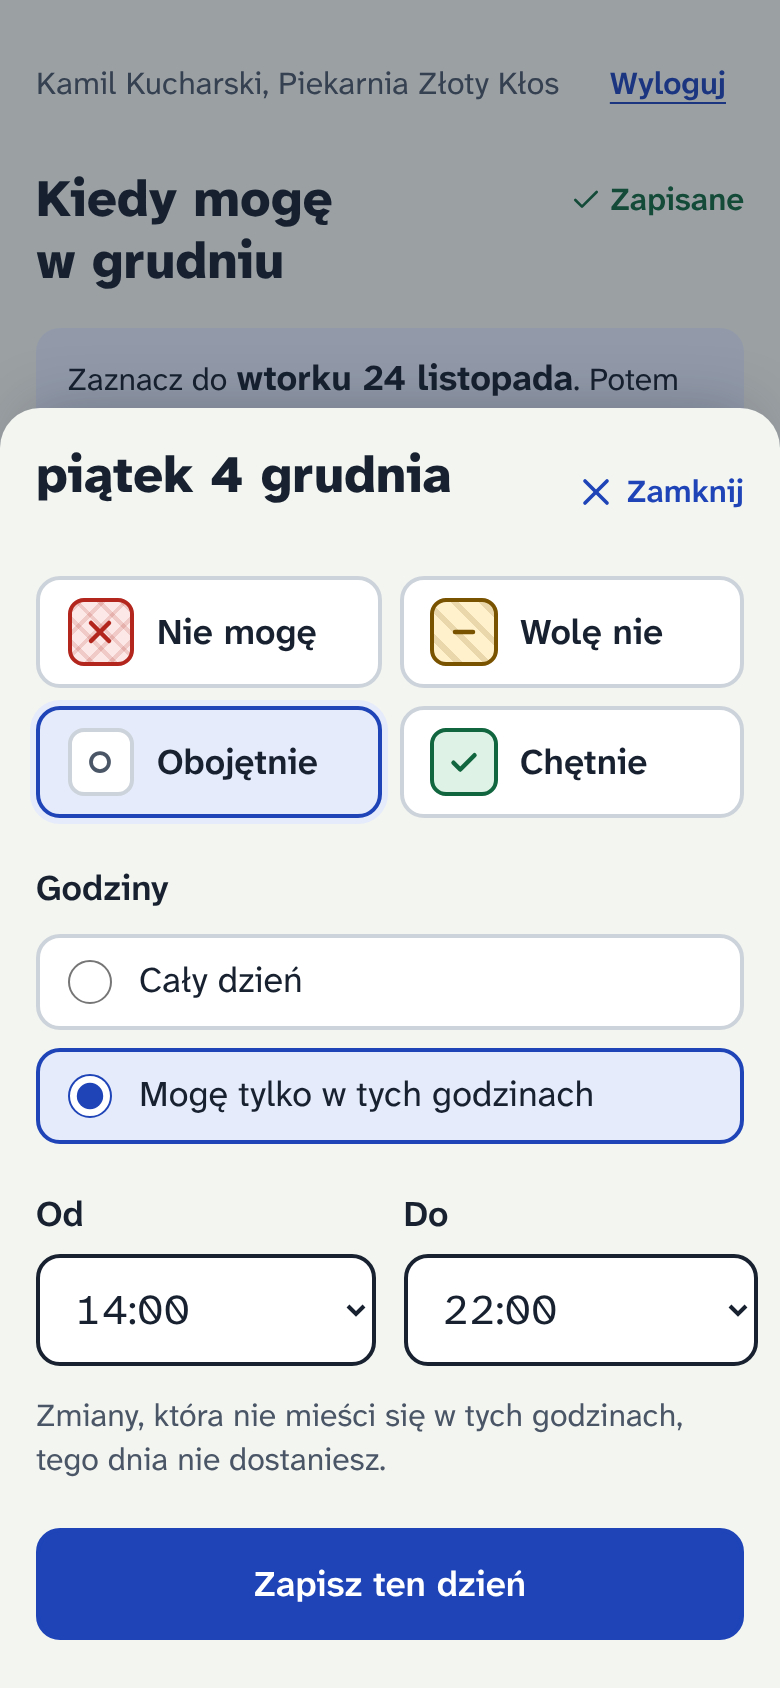
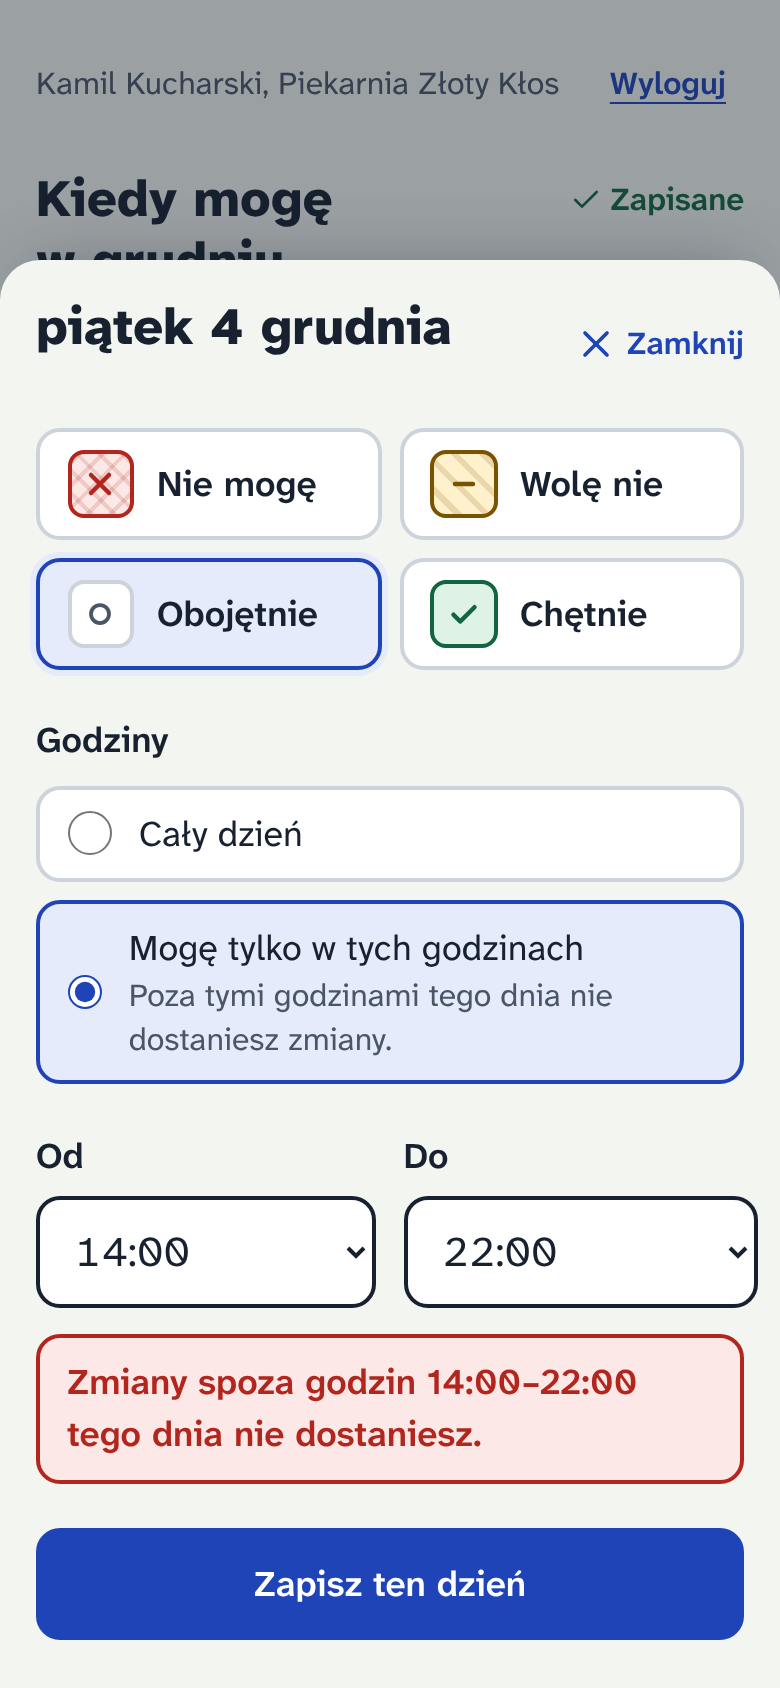
Open a day's hours with a tap, list days with hours, clearer hours warning
- A tap on a day that already has the chosen state opens its hours sheet.
- "Dni z godzinami" list under the calendar with a "Zmień" button per day.
- Day sheet warns in red that no shift outside the chosen hours is possible.
- "Więcej opcji" explains that repeat and copy overwrite marks (undo works).
- Pilot questions from the review noted in docs/plan.md.

Claude-Session: https://claude.ai/code/session_01EvmcCo4qz2pWAJ61h7Xgtv

Changed region(s): [[0.0, 0.154, 1.0, 0.8934]]

diff --git a/frontend/src/features/availability/AvailabilityScreen.tsx b/frontend/src/features/availability/AvailabilityScreen.tsx
@@ -13,14 +13,15 @@ import { Button } from '../../components/ui/button'
 import { EmptyState, ErrorState, InlineError, Loading } from '../../components/ui/status'
 import { errorMessage, NETWORK_PROBLEM } from '../../lib/api-error'
 import { cn } from '../../lib/cn'
-import { addDays, dayAndMonth, parseDate, periodWords, toIsoDate, weekdayGenitive } from '../../lib/dates'
+import { addDays, dayAndMonth, dayTitle, parseDate, periodWords, toIsoDate, weekdayGenitive } from '../../lib/dates'
 import { AvailabilityCalendar } from './AvailabilityCalendar'
 import { DayHoursSheet } from './DayHoursSheet'
 import {
   type AvailabilityState,
   changedDays,
   countStates,
-  type Mark,
+  describeMark,
+  hasHours,
   markOf,
   STATE_LABEL,
   STATES,
@@ -139,9 +140,9 @@ function AvailabilityEditor({
       stroke.current ??= {}
       if (date in stroke.current) return
       const before = markOf(marksRef.current, date)
-      const after: Mark = { state: tool, from: null, to: null }
       stroke.current[date] = before
-      if (!sameMark(before, after)) apply({ [date]: after })
+      // A day that already has this state keeps its hours; a tap on it opens the day instead (see endStroke).
+      if (before.state !== tool) apply({ [date]: { state: tool, from: null, to: null } })
     },
     [tool],
   )
@@ -156,6 +157,12 @@ function AvailabilityEditor({
         previous[date] = touched[date]
         changes[date] = markOf(marksRef.current, date)
       }
+    }
+    const dates = Object.keys(touched)
+    if (dates.length === 1 && Object.keys(changes).length === 0) {
+      // Tapping a day that already shows the chosen state opens it: its hours can be seen and changed.
+      setOpenDay(dates[0])
+      return
     }
     record(previous)
     send(changes)
@@ -229,6 +236,8 @@ function AvailabilityEditor({
         onStroke={endStroke}
         onOpenDay={tool === 'hours' ? setOpenDay : undefined}
       />
+
+      <DaysWithHours marks={marks} dates={dates} editable={editable} onOpen={setOpenDay} />
 
       <p className="m-0 flex flex-wrap gap-x-3.5 gap-y-1 text-sm text-ink-muted" aria-live="polite">
         <span>
@@ -400,5 +409,43 @@ function ToolBar({ tool, onChange }: { tool: Tool; onChange: (tool: Tool) => voi
         ))}
       </div>
     </div>
+  )
+}
+
+/** Days marked with hours, written out, so the hours can be read and changed without hunting in the grid. */
+function DaysWithHours({
+  marks,
+  dates,
+  editable,
+  onOpen,
+}: {
+  marks: Marks
+  dates: string[]
+  editable: boolean
+  onOpen: (date: string) => void
+}) {
+  const withHours = dates.filter((date) => hasHours(markOf(marks, date)))
+  if (withHours.length === 0) return null
+  return (
+    <section aria-labelledby="hours-days" className="grid gap-2">
+      <h2 id="hours-days" className="m-0 text-base font-extrabold">
+        Dni z godzinami
+      </h2>
+      <ul className="m-0 grid list-none overflow-hidden rounded-md border border-line bg-surface p-0">
+        {withHours.map((date) => (
+          <li key={date} className="flex items-center justify-between gap-3 border-t border-grid px-3.5 py-1.5 first:border-t-0">
+            <span className="min-w-0">
+              <span className="font-semibold">{dayTitle(parseDate(date))}</span>
+              <span className="block text-sm text-ink-muted">{describeMark(markOf(marks, date))}</span>
+            </span>
+            {editable && (
+              <Button variant="quiet" size="normal" className="px-2" onClick={() => onOpen(date)}>
+                Zmień
+              </Button>
+            )}
+          </li>
+        ))}
+      </ul>
+    </section>
   )
 }

diff --git a/frontend/src/features/availability/DayHoursSheet.tsx b/frontend/src/features/availability/DayHoursSheet.tsx
@@ -47,7 +47,7 @@ export function DayHoursSheet({
             <label
               key={String(option)}
               className={cn(
-                'flex min-h-(--touch) cursor-pointer items-center gap-3 rounded-md border-2 border-line bg-surface px-3',
+                'flex min-h-(--touch) cursor-pointer items-center gap-3 rounded-md border-2 border-line bg-surface px-3 py-2',
                 limited === option && 'border-accent bg-accent-soft',
               )}
             >
@@ -58,7 +58,16 @@ export function DayHoursSheet({
                 checked={limited === option}
                 onChange={() => setLimited(option)}
               />
-              {option ? (restricting ? 'Tylko w tych godzinach' : 'Mogę tylko w tych godzinach') : 'Cały dzień'}
+              <span>
+                {option ? (restricting ? 'Tylko w tych godzinach' : 'Mogę tylko w tych godzinach') : 'Cały dzień'}
+                {option && (
+                  <span className="block text-sm text-ink-muted">
+                    {restricting
+                      ? 'W pozostałych godzinach tego dnia możesz pracować.'
+                      : 'Poza tymi godzinami tego dnia nie dostaniesz zmiany.'}
+                  </span>
+                )}
+              </span>
             </label>
           ))}
         </fieldset>
@@ -68,18 +77,18 @@ export function DayHoursSheet({
               <TimeSelect id="hours-from" label="Od" value={from} onChange={setFrom} asEnd={false} />
               <TimeSelect id="hours-to" label="Do" value={to} onChange={setTo} asEnd />
             </div>
-            <p className="m-0 text-sm text-ink-muted">
-              {empty
-                ? 'Początek i koniec są takie same. Zmień jedną z godzin.'
-                : [
-                    overnight(draft) ? 'Do rana następnego dnia, na przykład na nockę.' : '',
-                    restricting
-                      ? 'W pozostałych godzinach tego dnia możesz pracować.'
-                      : 'Zmiany, która nie mieści się w tych godzinach, tego dnia nie dostaniesz.',
-                  ]
-                    .filter(Boolean)
-                    .join(' ')}
-            </p>
+            {(empty || overnight(draft)) && (
+              <p className={cn('m-0 text-sm', empty ? 'text-cannot' : 'text-ink-muted')}>
+                {empty
+                  ? 'Początek i koniec są takie same. Zmień jedną z godzin.'
+                  : 'Do rana następnego dnia, na przykład na nockę.'}
+              </p>
+            )}
+            {!restricting && !empty && (
+              <p className="m-0 rounded-md border-2 border-cannot bg-cannot-soft px-3 py-2 font-semibold text-cannot">
+                Zmiany spoza godzin {shortTime(from)}–{to === '00:00' ? '24:00' : shortTime(to)} tego dnia nie dostaniesz.
+              </p>
+            )}
           </div>
         )}
         <Button wide disabled={empty} onClick={() => onSave(draft)}>

diff --git a/frontend/src/features/availability/AvailabilityScreen.test.tsx b/frontend/src/features/availability/AvailabilityScreen.test.tsx
@@ -72,6 +72,27 @@ describe('AvailabilityScreen', () => {
     })
   })
 
+  it('warns plainly that "chętnie" with hours blocks other shifts that day', async () => {
+    api(availability())
+    renderScreen(<AvailabilityScreen companyId="c1" readOnly={false} />)
+    fireEvent.click(await screen.findByRole('button', { name: /Godziny dnia/ }))
+    fireEvent.click(screen.getByRole('button', { name: 'wtorek 1 grudnia: obojętnie' }))
+    fireEvent.click(await screen.findByRole('button', { name: 'Chętnie' }))
+    fireEvent.click(screen.getByRole('radio', { name: /Mogę tylko w tych godzinach/ }))
+    expect(screen.getByText('Zmiany spoza godzin 14:00–22:00 tego dnia nie dostaniesz.')).toBeInTheDocument()
+  })
+
+  it('opens a day with its hours when it is tapped with the state it already has', async () => {
+    api(availability())
+    renderScreen(<AvailabilityScreen companyId="c1" readOnly={false} />)
+    expect(await screen.findByText('Dni z godzinami')).toBeInTheDocument()
+    fireEvent.click(screen.getByRole('button', { name: 'Chętnie' }))
+    fireEvent.click(screen.getByRole('button', { name: /^piątek 4 grudnia: chętnie/ }), { detail: 0 })
+    expect(await screen.findByRole('dialog', { name: 'piątek 4 grudnia' })).toBeInTheDocument()
+    expect(screen.getByLabelText('Od')).toHaveValue('22:00')
+    expect(screen.getByLabelText('Do')).toHaveValue('06:00')
+  })
+
   it('cannot be changed when the company is read-only', async () => {
     api(availability())
     renderScreen(<AvailabilityScreen companyId="c1" readOnly />)

diff --git a/frontend/src/features/availability/MoreOptionsSheet.tsx b/frontend/src/features/availability/MoreOptionsSheet.tsx
@@ -43,7 +43,8 @@ export function MoreOptionsSheet({
             Powtarzaj co tydzień
           </h3>
           <p className="m-0 text-sm text-ink-muted">
-            Na przykład: we wtorki i czwartki mam zajęcia do końca semestru, więc wtedy nie mogę.
+            Na przykład: we wtorki i czwartki mam zajęcia do końca semestru, więc wtedy nie mogę. Zastąpi to, co jest
+            już zaznaczone w te dni; w razie pomyłki użyj „Cofnij”.
           </p>
           <div role="group" aria-label="Dni tygodnia" className="grid grid-cols-7 gap-1">
             {WEEKDAY_HEADERS.map((name, day) => (
@@ -88,7 +89,7 @@ export function MoreOptionsSheet({
           </h3>
           <p className="m-0 text-sm text-ink-muted">
             Każdy dzień dostanie to, co było zaznaczone w ten sam dzień tygodnia miesiąc wcześniej. Potem możesz
-            poprawić pojedyncze dni.
+            poprawić pojedyncze dni albo wszystko cofnąć przyciskiem „Cofnij”.
           </p>
           <Button variant="secondary" wide disabled={busy} onClick={onCopy}>
             Skopiuj z poprzedniego miesiąca

diff --git a/docs/spec.md b/docs/spec.md
@@ -26,7 +26,7 @@ Firma -> grupa lokali (opcjonalna) -> lokal. Jeden menedżer może prowadzić wi
 ## Pracownik (najpierw telefon)
 
 1. Mój grafik: data, lokal, godziny, stanowisko; kto jest ze mną na zmianie.
-2. Dyspozycyjność wyłącznie ręcznie w kalendarzu, bez LLM. Stany: nie mogę / wolę nie / obojętnie / chętnie. Zaznaczanie "pędzlem" (decyzja Piotra z 12.11.2026): pracownik wybiera na dole ekranu stan, który zaznacza, a potem stuka w dzień albo przeciąga po kilku dniach naraz; nie trzeba pamiętać kolejności stanów. Zapis automatyczny, "Cofnij" cofa ostatni ruch. Po stuknięciu w dzień narzędziem "Godziny dnia" można wybrać godziny (prośba Piotra z 12.11.2026: umowa zlecenie daje pełną elastyczność): przy "chętnie" i "obojętnie" znaczą "mogę tylko w tych godzinach" (zmiana spoza nich tego dnia liczy się jak "nie mogę"), przy "nie mogę" i "wolę nie" znaczą "nie w tych godzinach"; koniec przed początkiem to godziny do rana następnego dnia (nocka). Opcje: "powtarzaj co tydzień do [data]" (studentom plan zmienia się co semestr) i "skopiuj z poprzedniego miesiąca". Widoczny termin zgłoszenia.
+2. Dyspozycyjność wyłącznie ręcznie w kalendarzu, bez LLM. Stany: nie mogę / wolę nie / obojętnie / chętnie. Zaznaczanie "pędzlem" (decyzja Piotra z 12.11.2026): pracownik wybiera na dole ekranu stan, który zaznacza, a potem stuka w dzień albo przeciąga po kilku dniach naraz; nie trzeba pamiętać kolejności stanów. Zapis automatyczny, "Cofnij" cofa ostatni ruch. Stuknięcie w dzień, który ma już wybrany stan, albo narzędzie "Godziny dnia" otwiera ten dzień; pod kalendarzem jest lista dni z godzinami z przyciskiem "Zmień". Można tam wybrać godziny (prośba Piotra z 12.11.2026: umowa zlecenie daje pełną elastyczność): przy "chętnie" i "obojętnie" znaczą "mogę tylko w tych godzinach" (zmiana spoza nich tego dnia liczy się jak "nie mogę"), przy "nie mogę" i "wolę nie" znaczą "nie w tych godzinach"; koniec przed początkiem to godziny do rana następnego dnia (nocka). Opcje: "powtarzaj co tydzień do [data]" (studentom plan zmienia się co semestr) i "skopiuj z poprzedniego miesiąca". Widoczny termin zgłoszenia.
 3. Prośby tekstem tylko dla spraw spoza kalendarza, np. "nie chcę zmiany z osobą X". Pracownik widzi, jak system zrozumiał prośbę, i może poprawić. Prośby widzi tylko menedżer.
 4. Po publikacji pracownik widzi tylko swój grafik na najbliższy okres i sumę godzin. Nie widzi, czy jego prośby zostały spełnione, ani powodów.
 5. Oddanie zmiany: "oddaj zmianę" -> powiadomienie w aplikacji dla osób ze wszystkich lokali firmy, które zaznaczyły wtedy dyspozycyjność, mają właściwe stanowisko i nie złamią twardych reguł -> "biorę" -> menedżer zatwierdza. Zapisuj historię przypisań zmiany, żeby później łatwo dodać zamiany zmian między dwiema osobami.
